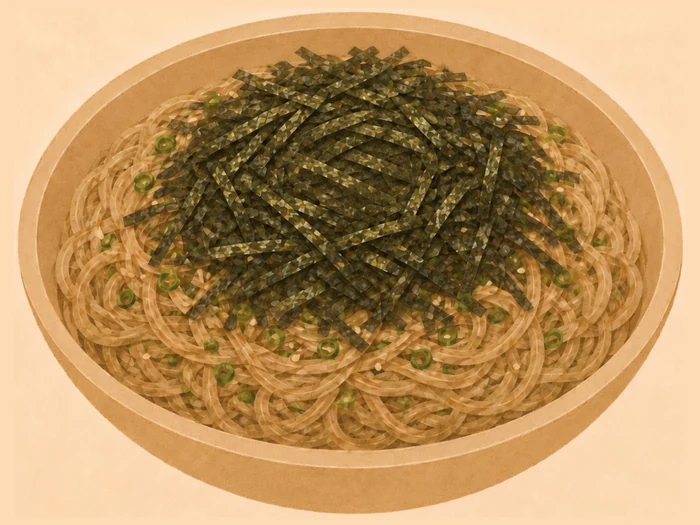
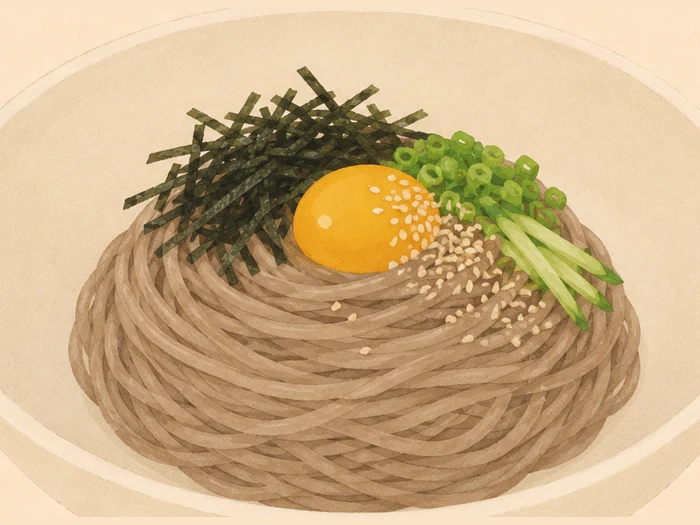
r8 泡菜鍋、r13 막국수重畫：器皿要對比夠，而且不能裝滿
使用者拿兩張真實照片定的方向，而且推翻了我上一版的提案。
我提「家常這批一律改白瓷」，理由是木碗跟食物同色系、整張泥成一片。
方向對，結論錯 —— ✅ 真正的規則是「器皿要跟食物對比夠」：
막국수用淺色碗（深色麵跳出來），泡菜鍋反而要留黑陶（把紅襯亮），
換成白瓷會糊掉。器皿的形狀也不能改，形狀是那道菜的身分。

另外兩條，這兩張都靠它們變好看：

1. **食物只佔容器寬度 60%，四周留一圈乾淨的容器。**
   裝到全滿看起來就是隨便（她原話：「你裝一碗那麼滿在那邊，
   看起來就很隨便，很沒食慾」）。
2. **配料要聚成一堆放在一側，不要均勻撒滿。**
   막국수前半留純麵，海苔＋蛋黃＋蔥＋芝麻全部堆在後側，
   那個對比就是整張的構圖。

⚠ 附真實照片當參考時一定要加一句「照片只看擺盤和顏色，
不要學它的寫實畫法」，否則會生出寫生。

r13 那張照片還救了一個內容錯誤 —— 食譜裡有蛋黃和小黃瓜，
我上一版的提示詞漏了兩個都沒寫。

ASSETS 44 -> 45

diff --git a/index.html b/index.html
@@ -745,7 +745,7 @@ ol.steps li::before {
 </div>
 
 <!-- 改完 recipes.js 就把 v 往上加一號，不然瀏覽器會一直吃舊的快取 -->
-<script src="recipes.js?v=58"></script>
+<script src="recipes.js?v=63"></script>
 <script>
 /* ══════════════════════════════════════════════
    慢寶 · 骨架
@@ -753,7 +753,7 @@ ol.steps li::before {
    ══════════════════════════════════════════════ */
 
 /* 素材版本。換過圖就 bump 一次，否則瀏覽器會一直用舊的快取 */
-const ASSETS = '44';
+const ASSETS = '45';
 const asset = p => p + '?v=' + ASSETS;
 
 const $ = (s, el = document) => el.querySelector(s);
@@ -997,14 +997,19 @@ const TERM = {
   /* r14–r16 */
   '蝦仁': '손질 새우',
   '蘆筍': '아스파라거스',
+  '番紅花': '사프란',
   '培根': '베이컨',
   '清酒': '청주',
+  '燒酒': '소주',
+  '白酒': '화이트와인',
+  '牛骨高湯': '사골 육수',
+  '牛高湯': '소고기 육수',
+  '雞高湯': '닭육수',
+  '蔬菜高湯': '채소 육수',
   '檸檬': '레몬',
   '松露鹽': '트러플 소금',
   '帕瑪森起司': '파르미지아노 치즈',
   '燉飯米': '리조또용 쌀',
-  '高湯塊': '육수 큐브',
-  '熱水': '뜨거운 물',
   'Guanciale 義式醃豬頰肉': '관찰레',
   'San Marzano DOP 去皮整番茄': '산 마르자노 DOP 홀토마토',
   'Pecorino Romano': '페코리노 로마노',
@@ -1026,7 +1031,7 @@ const TERM = {
    用中文原句當 key（不是編號）：位置會變，句子不會，重複的句子也自動共用一條。 */
 const NOTE = {
   '也可用整隻雞切塊；本食譜採這個組合，因為我就愛': '통닭을 토막 내서 써도 된다. 이 조합인 건 그냥 내가 좋아해서.',
-  '推薦昆布魚乾或牛骨風味；高湯塊請依包裝比例調整': '다시마·멸치나 사골 육수를 추천. 육수 큐브는 포장 비율대로.',
+  '推薦昆布魚乾或牛骨風味': '다시마·멸치나 사골 육수를 추천.',
   '醃牛腩 1.5 茶匙、湯底 1 湯匙，試味再補': '양지 밑간 1.5작은술, 국물 1큰술. 맛보고 더 넣는다.',
   '推薦 Spaghetti No.5，最剛好': '스파게티 5번이 딱 좋다.',
   '愛吃辣再加，不吃辣可省略': '매운 걸 좋아하면 넣고, 아니면 빼도 된다.',
@@ -1044,7 +1049,7 @@ const NOTE = {
   'Spaghetti 或 Linguine': '스파게티 또는 링귀네',
   '16/20 大蝦；冷凍的提前冷藏解凍': '16/20 사이즈. 냉동이면 미리 냉장에서 해동한다.',
   '提味用，不是主角': '향을 더하는 용도. 주인공은 아니다.',
-  '代替白酒': '화이트와인 대신',
+  '沒有白酒時，可用清酒或燒酒代替': '화이트와인이 없으면 청주나 소주로 대체 가능',
   '皮屑和果汁都要': '껍질과 즙 모두 쓴다',
   '起鍋前撒': '마지막에 뿌린다',
   '可省': '선택',
@@ -1052,8 +1057,7 @@ const NOTE = {
   'Carnaroli': '카르나롤리',
   '約 250–300g；嫩頭、中段、硬梗分開用': '약 250–300g. 끝부분·가운데·밑동을 나눠서 쓴다.',
   '迷你的最好': '미니 사이즈 추천',
-  '사골（牛骨）風味': '사골 맛',
-  '分兩次用；收尾那份冷藏': '두 번 나눠 쓴다. 마무리용은 냉장해 둔다.',
+  '約 0.5g 那包的 1/4；剩下密封冷藏': '0.5g 한 봉지의 1/4 정도. 남은 것은 밀봉해 냉장한다.',
   '不可用培根或 Pancetta 代替': '베이컨이나 판체타로 대체하지 않는다',
   'Bucatini 或 Spaghetti': '부카티니 또는 스파게티',
   "認明 Pomodoro San Marzano dell'Agro Sarnese-Nocerino DOP；這份食譜不換一般番茄罐頭": "Pomodoro San Marzano dell'Agro Sarnese-Nocerino DOP 표시를 확인한다. 이 레시피는 일반 토마토 캔으로 바꾸지 않는다.",
